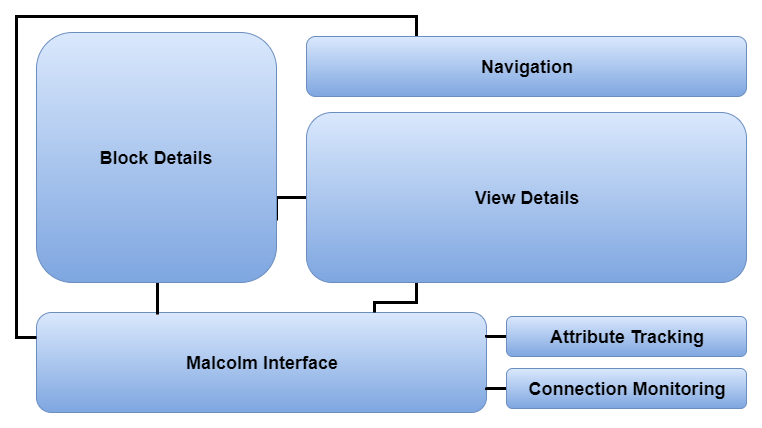
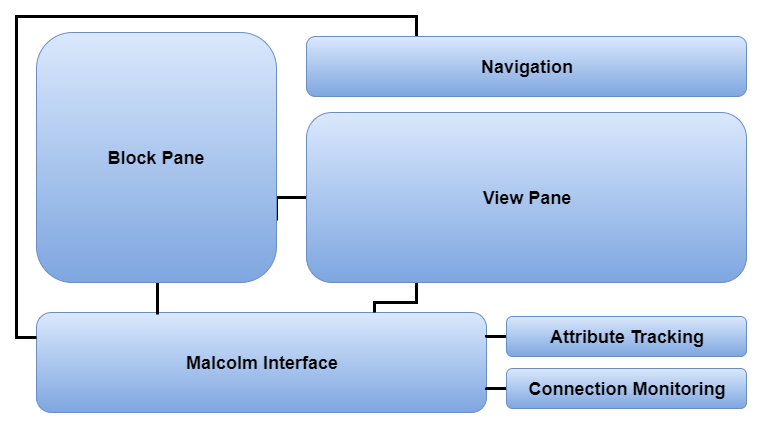
Updated the docs with more architectural diagram changes

Changed region(s): [[0.1207, 0.3341, 0.2717, 0.3949], [0.6037, 0.4252, 0.7546, 0.486]]

diff --git a/docs/source/SMG/architecture.rst b/docs/source/SMG/architecture.rst
@@ -32,11 +32,11 @@ The malcolm interface will allow MalcolmJS to be decoupled from Malcolm by isola
 
 The secondary reason for doing this is so that the Malcolm related code could be released as a library for others to create their own React dashboards from Malcolm data.
 
-**Block Details:-**
+**Block Pane:-**
 This presentational layer container will contain all the React components for displays information about the details for a block, i.e. information about the attributes it has. There will be quite a large collection of components in here for the various attributes, e.g. number inputs, LED status, combo selections, etc. The attributes will roughly break down into summary information, parameters, views and methods.
 
-**View Details:-**
-When the user selects a view options, e.g. layout, table, etc. from the block details then MalcolmJS will populate a central panel with the details about that view. For example, if they select layout then they will get a flow diagram showing the various blocks that are currently connected.
+**View Pane:-**
+When the user selects a view options, e.g. layout, table, etc. from the block pane then MalcolmJS will populate a central panel with the details about that view. For example, if they select layout then they will get a flow diagram showing the various blocks that are currently connected.
 
 **Navigation:-**
 The navigation container has all the presentational components for showing how far down the block tree a user is and allow them to select different levels as well as different views easily from one place.

diff --git a/docs/source/SMG/setting_up_a_dev_environment.rst b/docs/source/SMG/setting_up_a_dev_environment.rst
@@ -48,6 +48,7 @@ Then to run the sphinx build run:
 
 	sphinx-build -b html docs/source docs/build/html
 
+The same build step can be done by running the ``Makefile`` in the root of the repo.
 
 You can then open ``.\docs\build\html\index.html`` in a browser to view the results.
 
